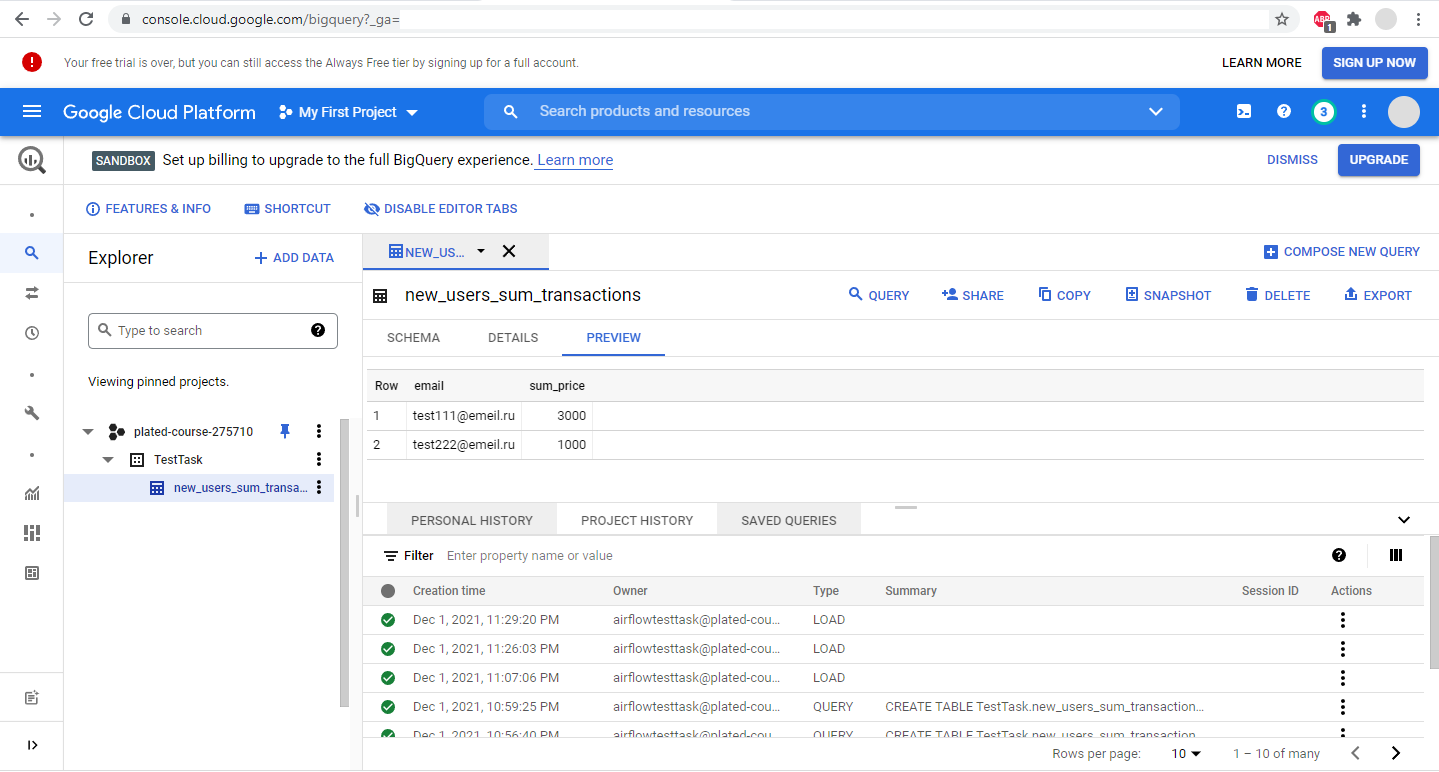
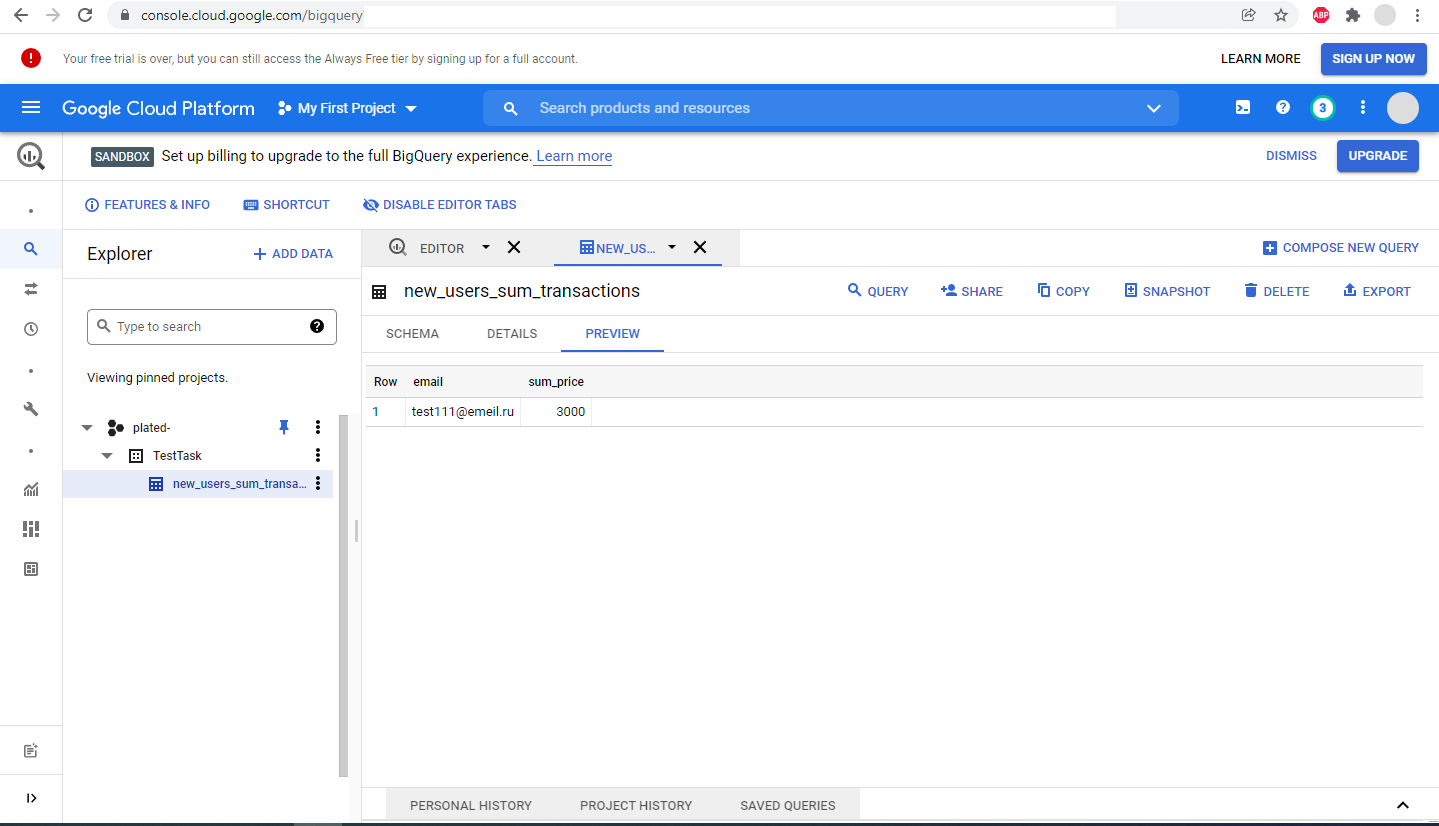
add TestTask for eLama (2)

diff --git a/projects/eLama TestTask/TestTaskDAG.py b/projects/eLama TestTask/TestTaskDAG.py
@@ -119,24 +119,32 @@ with dag:
         task_id="create_materialized_view",
         postgres_conn_id = "postgres_default",
         sql="""
-            CREATE MATERIALIZED VIEW new_users_sum_transactions
+	CREATE MATERIALIZED VIEW new_users_sum_transactions
             AS
                 WITH
                     new_users as(
-                        SELECT 
-                            u.user_id,
-                            u.email
-                        FROM users u
-                        RIGHT JOIN webinar w ON u.email = w.email
-                        WHERE u.email IS NOT NULL AND u.date_registration > '2016-04-01'
-                    )
-                    
-                    SELECT
-                        nu.email,
+						SELECT u.email, MIN(u.date_registration) as min_date
+						FROM users u
+						RIGHT JOIN webinar w ON u.email = w.email
+						WHERE u.email IS NOT NULL 
+						GROUP BY u.email
+					),
+					id_transactions_after_webinar as(
+						SELECT 
+    						u.user_id,
+							u.email
+						FROM 
+							users u
+						RIGHT JOIN new_users nu ON u.email = nu.email
+						WHERE u.email IS NOT NULL AND nu.min_date > '2016-04-01'
+					)
+					
+					SELECT
+                        t_id.email,
                         SUM(t.price) as sum_price
-                    FROM new_users nu
-                    LEFT JOIN transactions t ON nu.user_id = t.user_id
-                    GROUP BY nu.email
+                    FROM id_transactions_after_webinar t_id
+                    LEFT JOIN transactions t ON t_id.user_id = t.user_id
+                    GROUP BY t_id.email
           """,
     )
     
